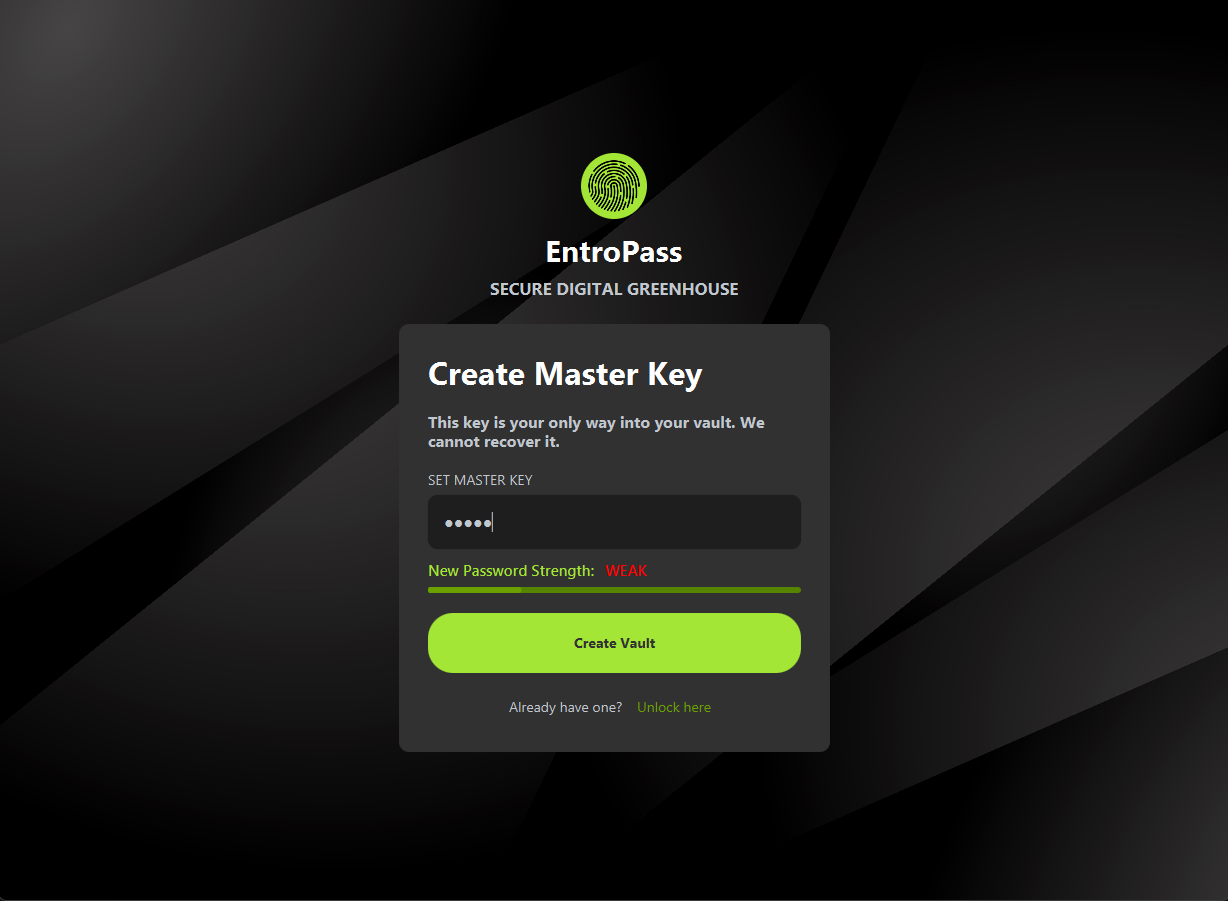
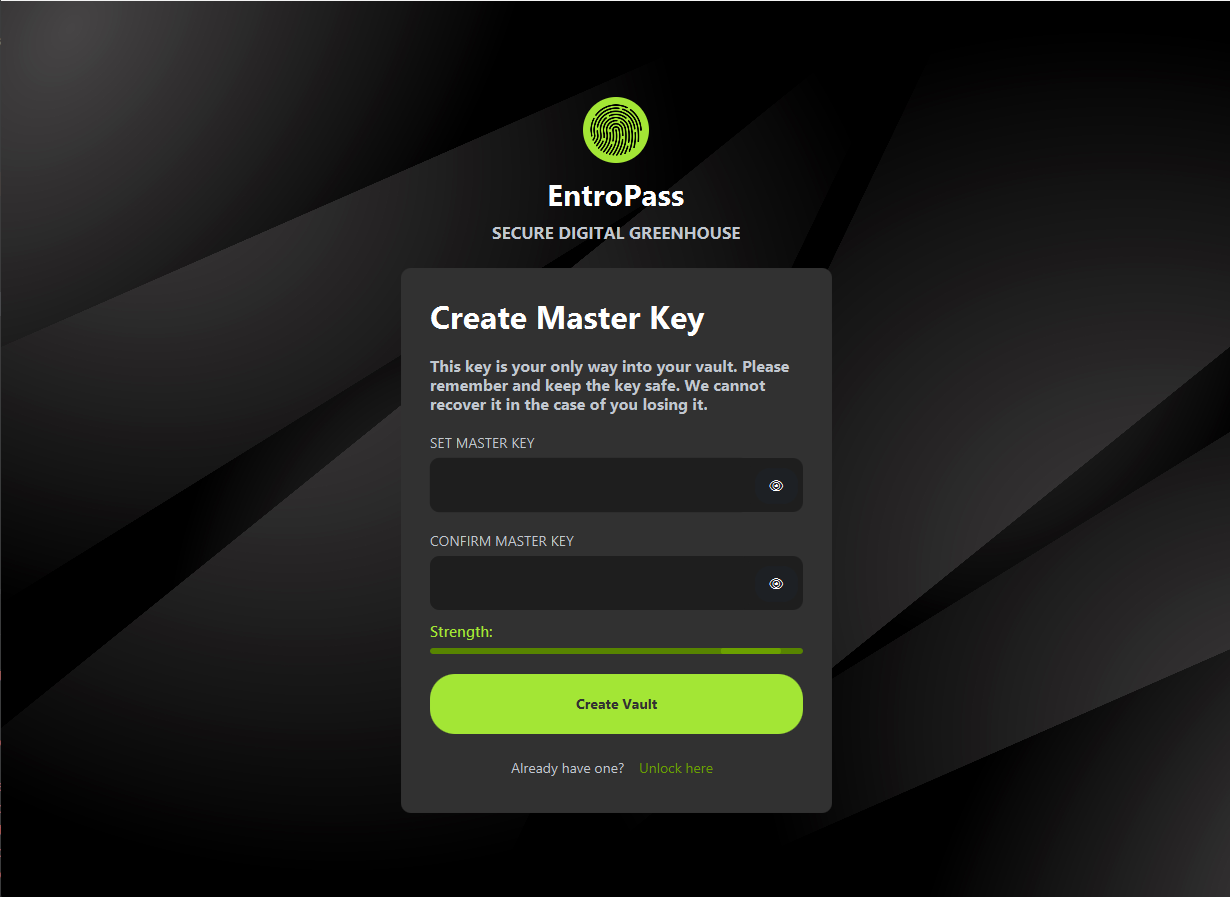
updated screenshots and readme

diff --git a/README.md b/README.md
@@ -40,7 +40,7 @@ This project is designed as a real desktop application, not a demo screen flow. 
 
 | Layer | Technology |
 |---|---|
-| Language | Java 25 (preview features enabled) |
+| Language | Java 21 (LTS) |
 | UI | JavaFX 25 (FXML + CSS scene architecture) |
 | Build | Maven 3.6+ |
 | Database | SQLite (`sqlite-jdbc 3.51.1.0`) |
@@ -98,7 +98,7 @@ This project is designed as a real desktop application, not a demo screen flow. 
 
 ### Prerequisites
 
-- JDK 25+
+- JDK 21+ (LTS)
 - Maven 3.6+
 
 ### Run Commands
@@ -110,9 +110,9 @@ mvn javafx:run
 
 ### Build Note
 
-The previous source/preview mismatch (`source=24` with `--enable-preview`, which requires release 25) has been resolved. `pom.xml` now consistently targets Java 25 with preview features enabled. The build should compile and run cleanly provided JDK 25 is installed.
+The project targets Java 21 LTS and uses no preview features, ensuring broad compatibility. The build should compile cleanly with JDK 21 or newer.
 
-If you see `invalid source release` errors, verify your active JDK version:
+If you see version mismatch errors, verify your active JDK:
 
 ```bash
 java -version